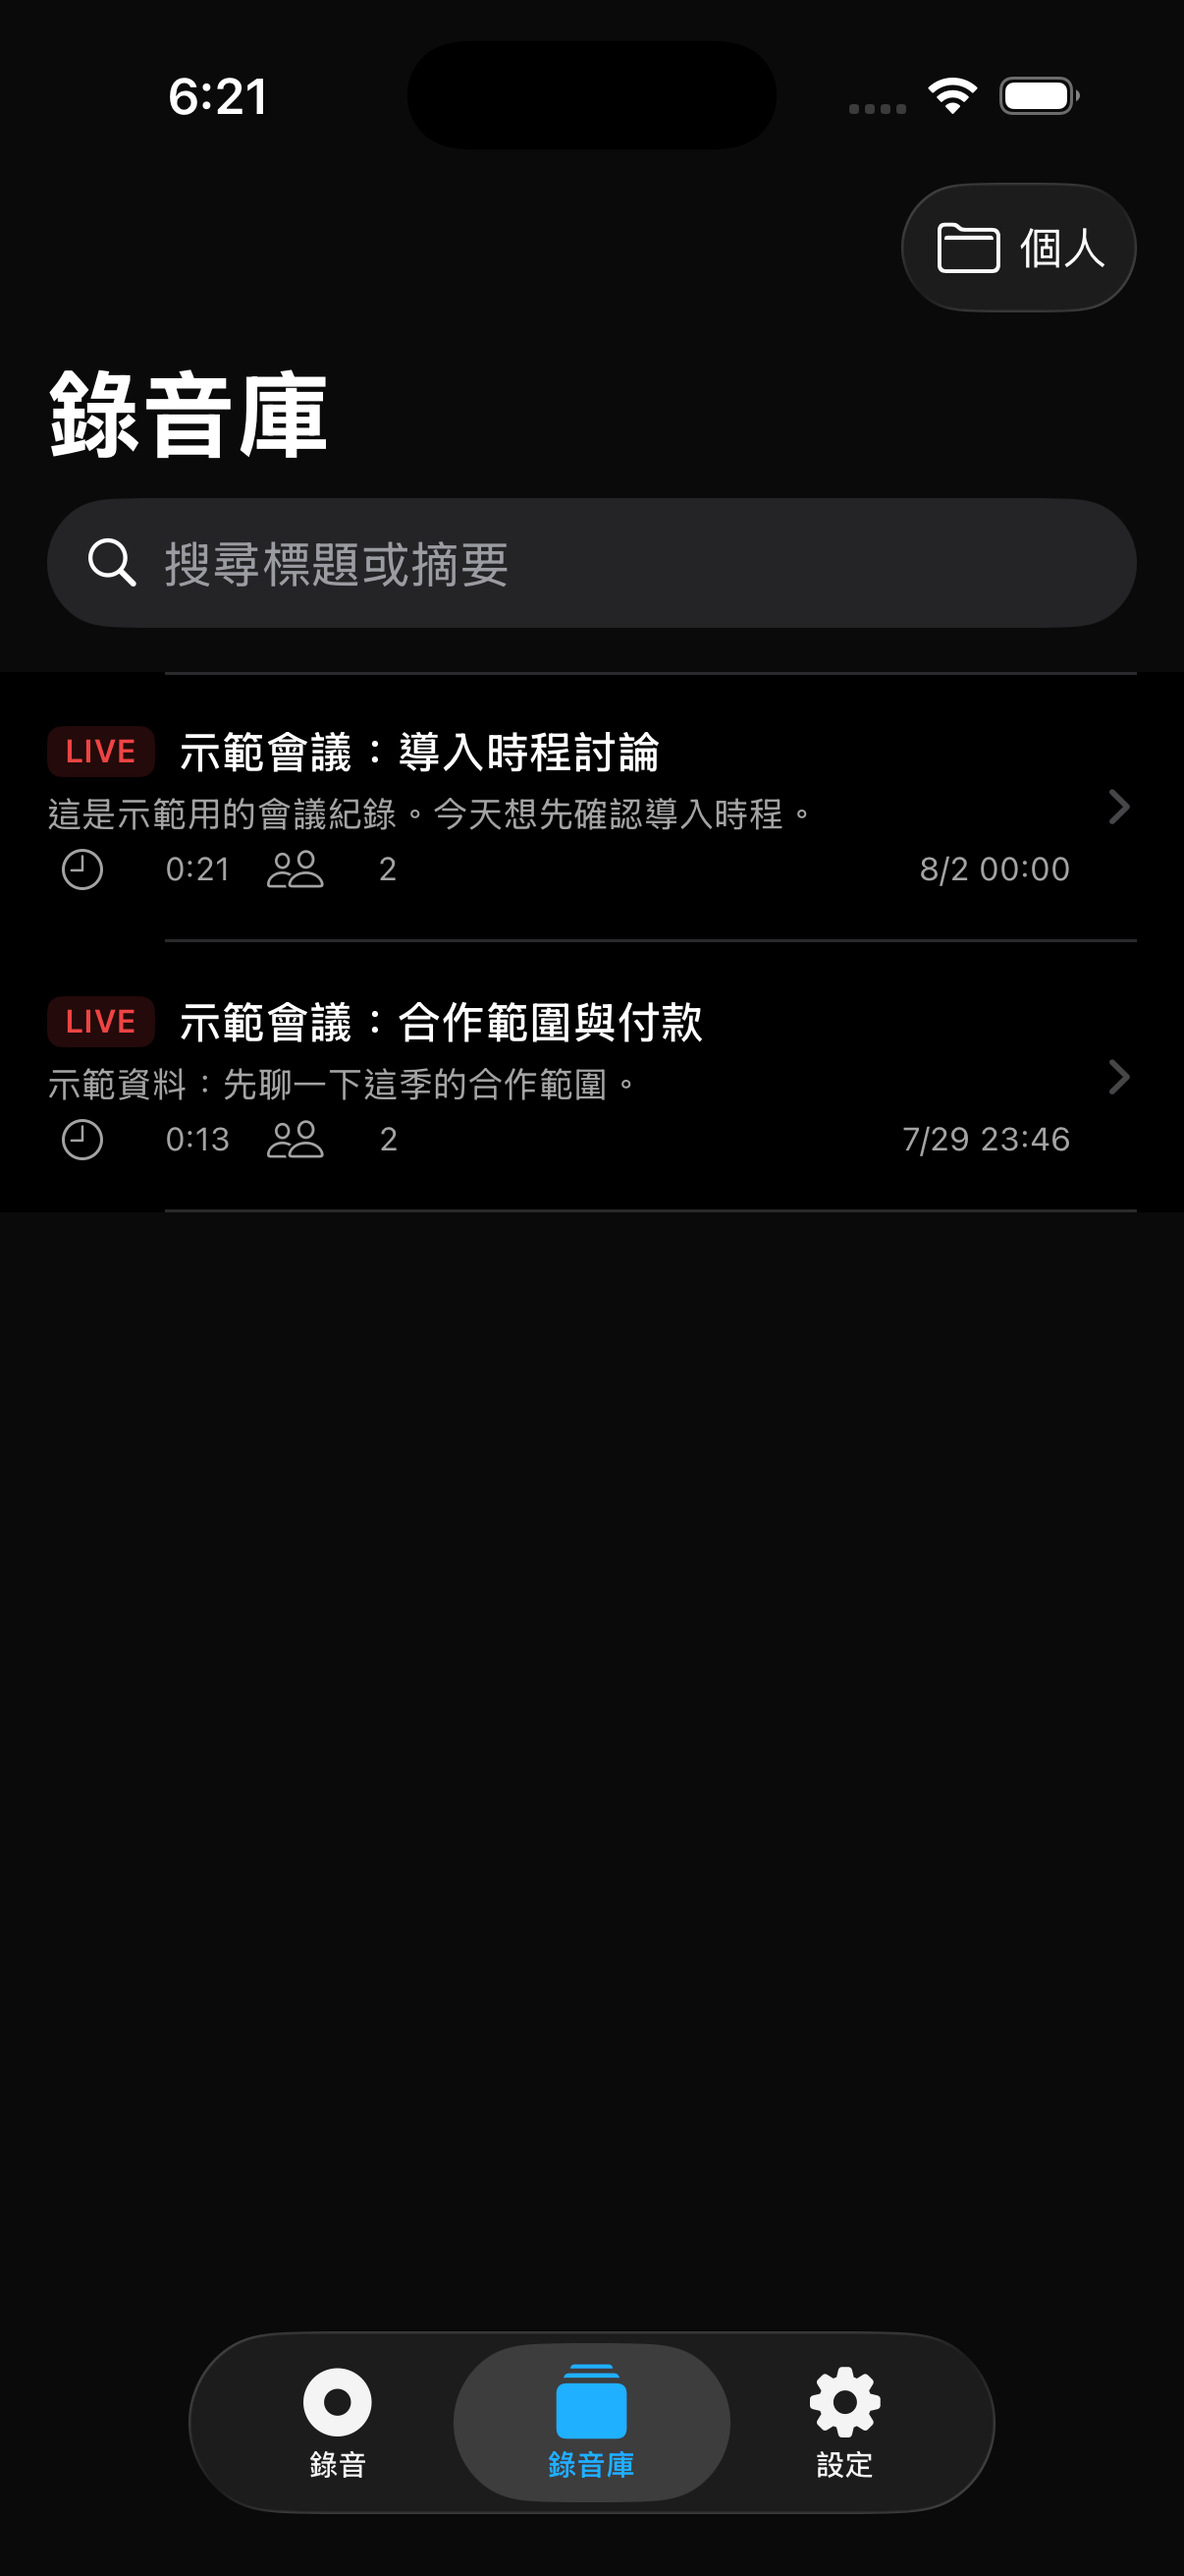
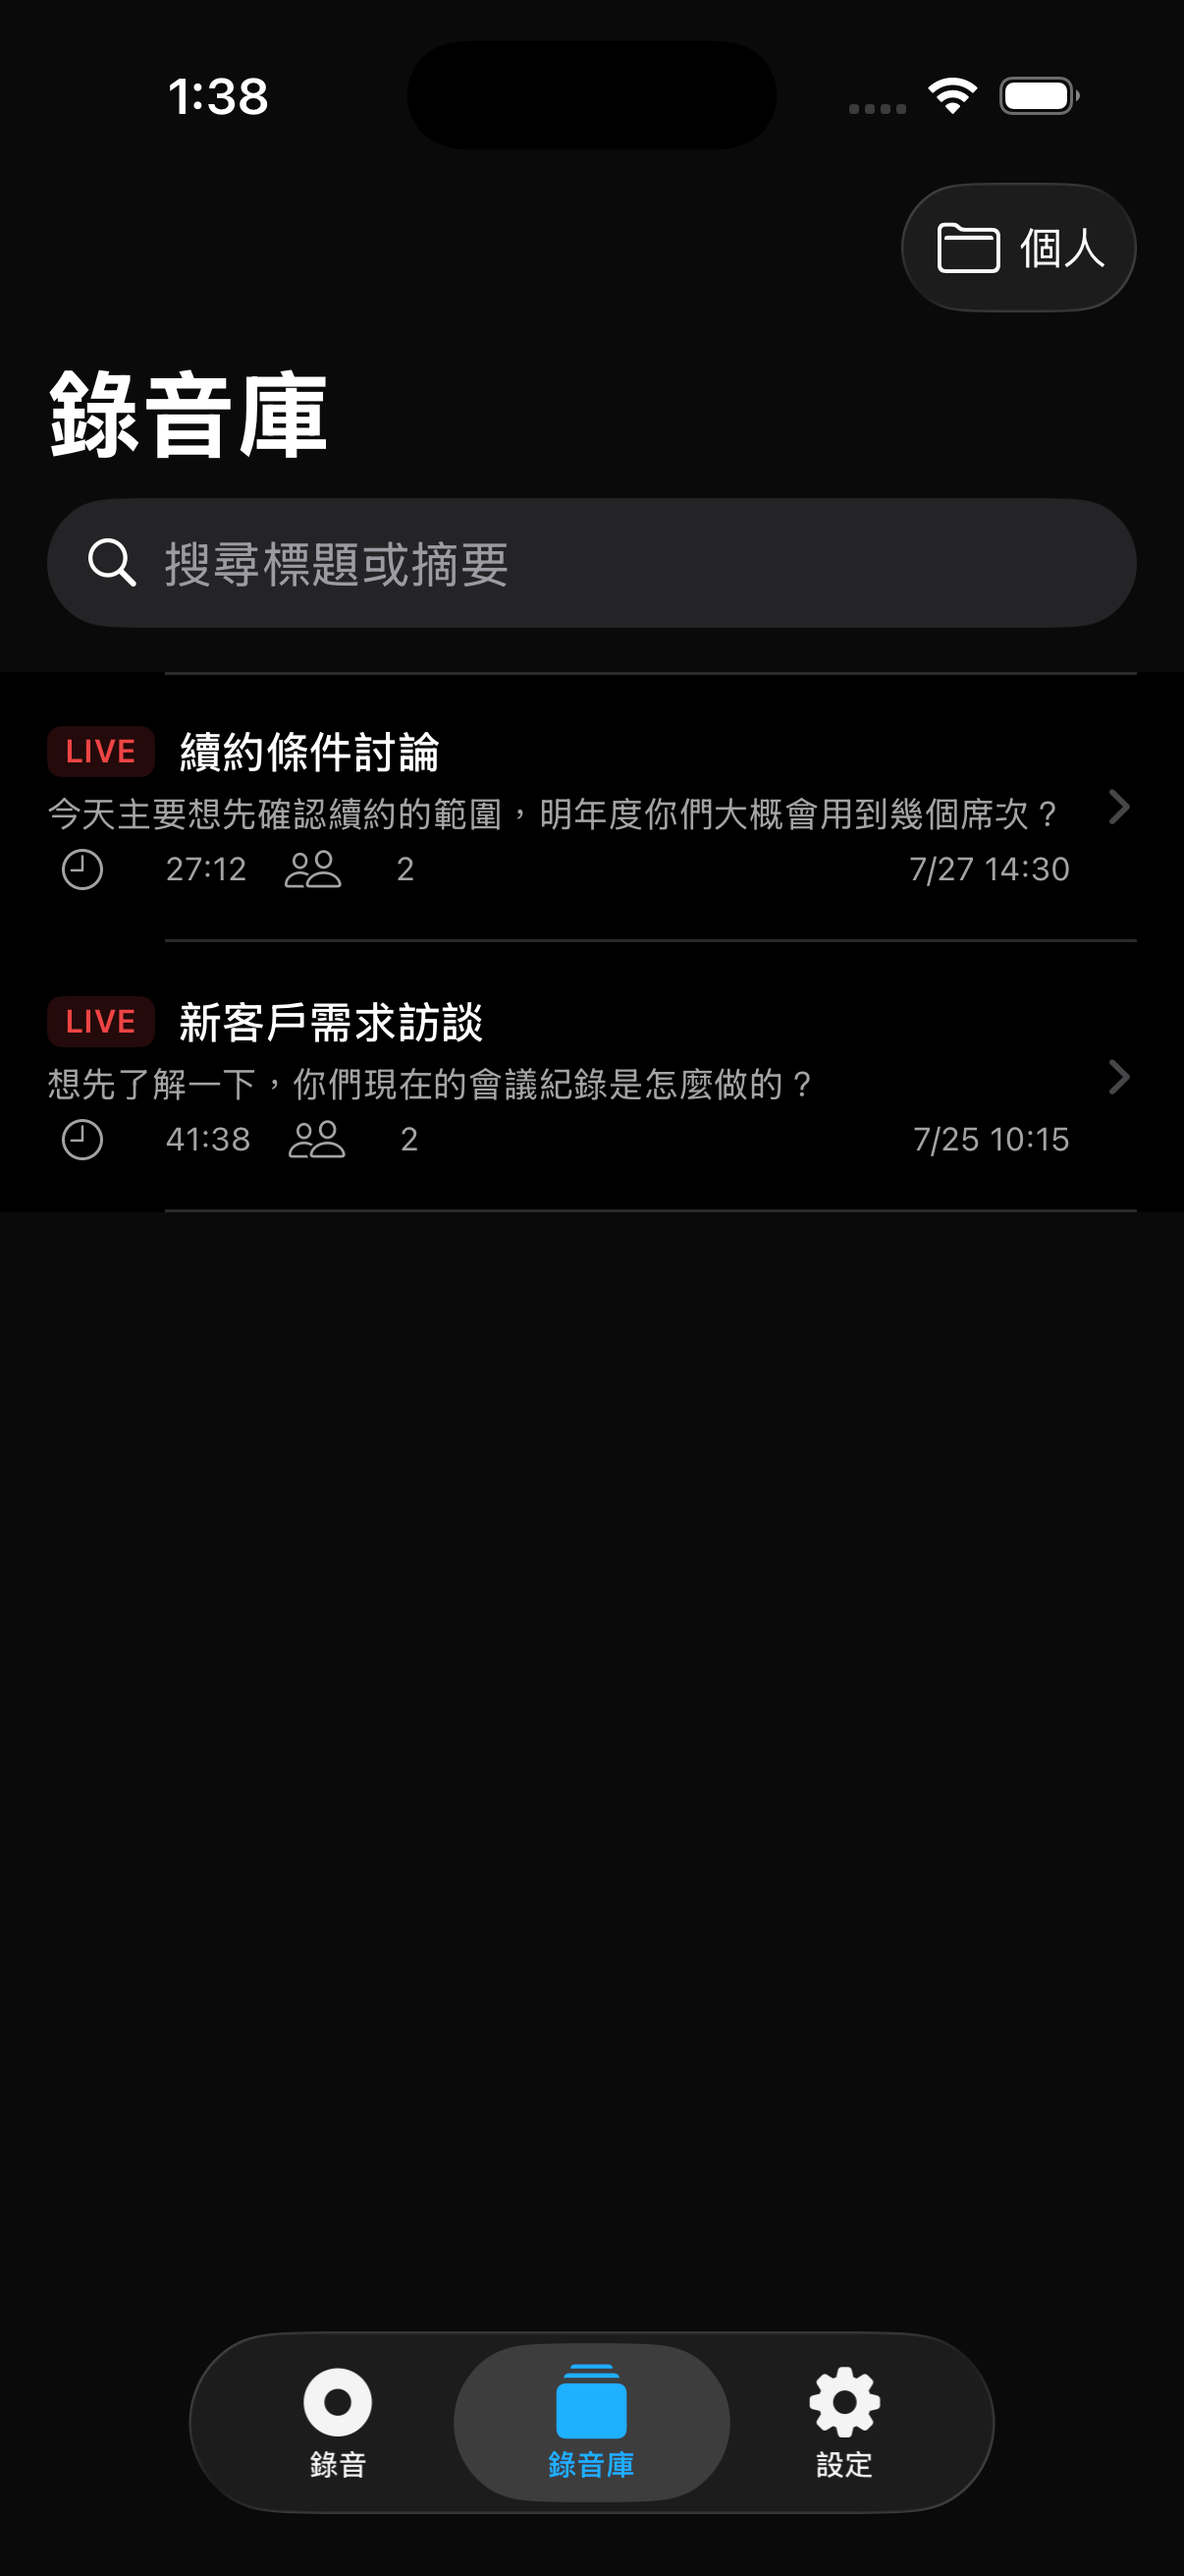
[docs] iOS: realistic demo meetings for App Store screenshots + reproducible seed script

diff --git a/ios/AppStore/screenshots/README.md b/ios/AppStore/screenshots/README.md
@@ -6,11 +6,23 @@ meeting content, real email addresses, or desktop mockups in screenshots.
 ## Current captured set
 
 Four real frames are checked in, captured from build 1.0 (3) on an iPhone 17 Pro
-simulator signed in as the review account, with the two sample meetings loaded:
-`01-record`, `02-library`, `03-transcript`, `04-settings`. The files at the top
-level are native 1206×2622; [`6.9-inch/`](6.9-inch) holds the same frames scaled
-to the 6.9-inch slot's **1320×2868** (0.06% aspect delta, not visible). Upload
-the `6.9-inch/` set.
+simulator signed in as the review account: `01-record`, `02-library`,
+`03-transcript`, `04-settings`. The files at the top level are native 1206×2622;
+[`6.9-inch/`](6.9-inch) holds the same frames scaled to the 6.9-inch slot's
+**1320×2868** (0.06% aspect delta, not visible). Upload the `6.9-inch/` set.
+
+### About the demo content
+
+The library and transcript frames show two meetings — 續約條件討論 and
+新客戶需求訪談 — written to read the way real B2B conversations actually sound
+(seat counts, onboarding time, invoicing split, a security questionnaire).
+That is deliberate: a screenshot captioned "this is a test" sells nothing and
+tells a reviewer nothing about the product.
+
+The content is **entirely fictional**. It names no real company, person, or
+customer, and no real meeting data was used. Speakers are labelled 我 /
+客戶窗口 via the app's own speaker-naming feature. Regenerate with
+`scratchpad/seed-demo.mjs` against the review account.
 
 Four frames satisfy submission (App Store Connect requires at least one). Two
 more would complete the story and are worth grabbing on the next pass:
